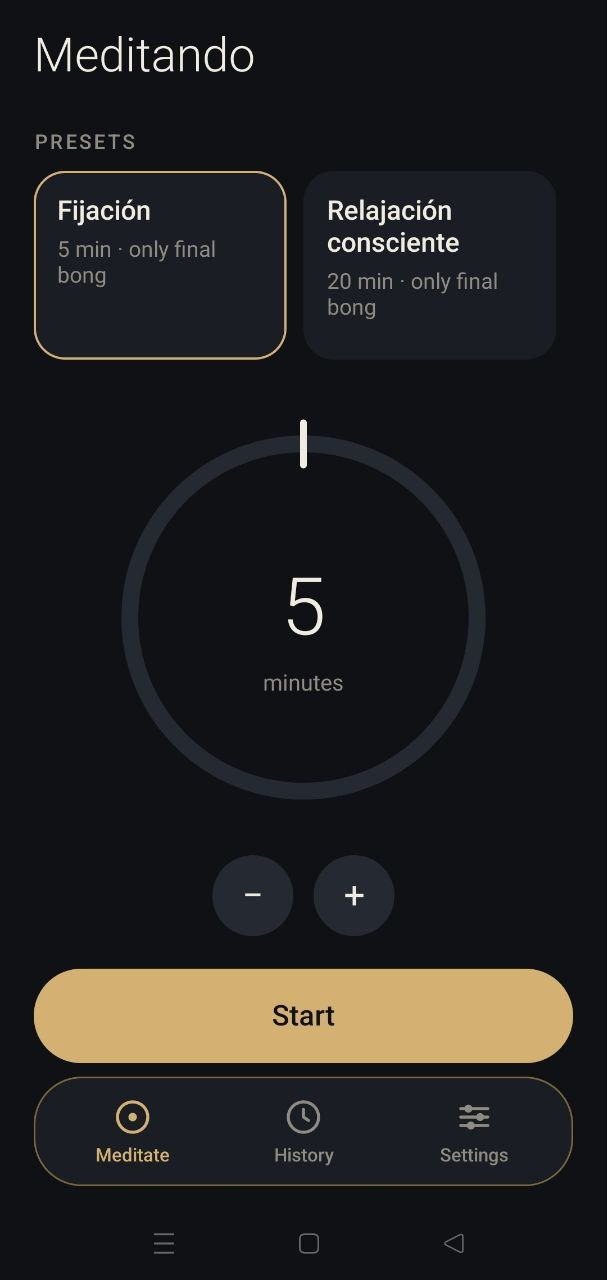
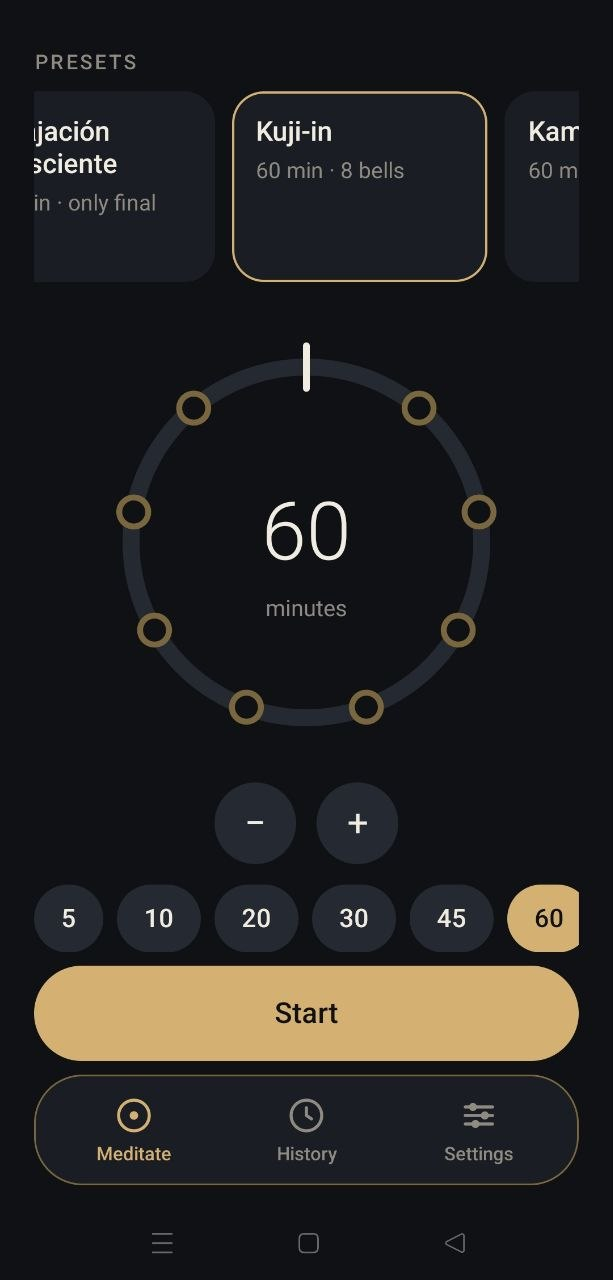
README: capturas del editor de textos y de la app en inglés

diff --git a/README.md b/README.md
@@ -8,7 +8,7 @@ Un temporizador para meditar en Android. Sin anuncios, sin cuentas y sin donativ
   <img src="docs/screenshots/kuji-in-es.jpg" alt="Pantalla de inicio con el Kuji-in" width="190">
   <img src="docs/screenshots/historial-es.jpg" alt="Historial" width="190">
   <img src="docs/screenshots/ajustes-es.jpg" alt="Ajustes y actualizaciones" width="190">
-  <img src="docs/screenshots/home-en.jpg" alt="Home screen in English" width="190">
+  <img src="docs/screenshots/editor-es.jpg" alt="Textos de las campanas" width="190">
 </p>
 
 ## Cómo funciona
@@ -54,6 +54,11 @@ Todo se queda en tu móvil. No hay anuncios ni seguimiento. Solo usa internet pa
 ## English
 
 A simple meditation timer for Android. No ads, no accounts, no donations.
+
+<p align="center">
+  <img src="docs/screenshots/home-en.jpg" alt="Home screen" width="190">
+  <img src="docs/screenshots/editor-en.jpg" alt="Bell texts" width="190">
+</p>
 
 ### How it works
 
